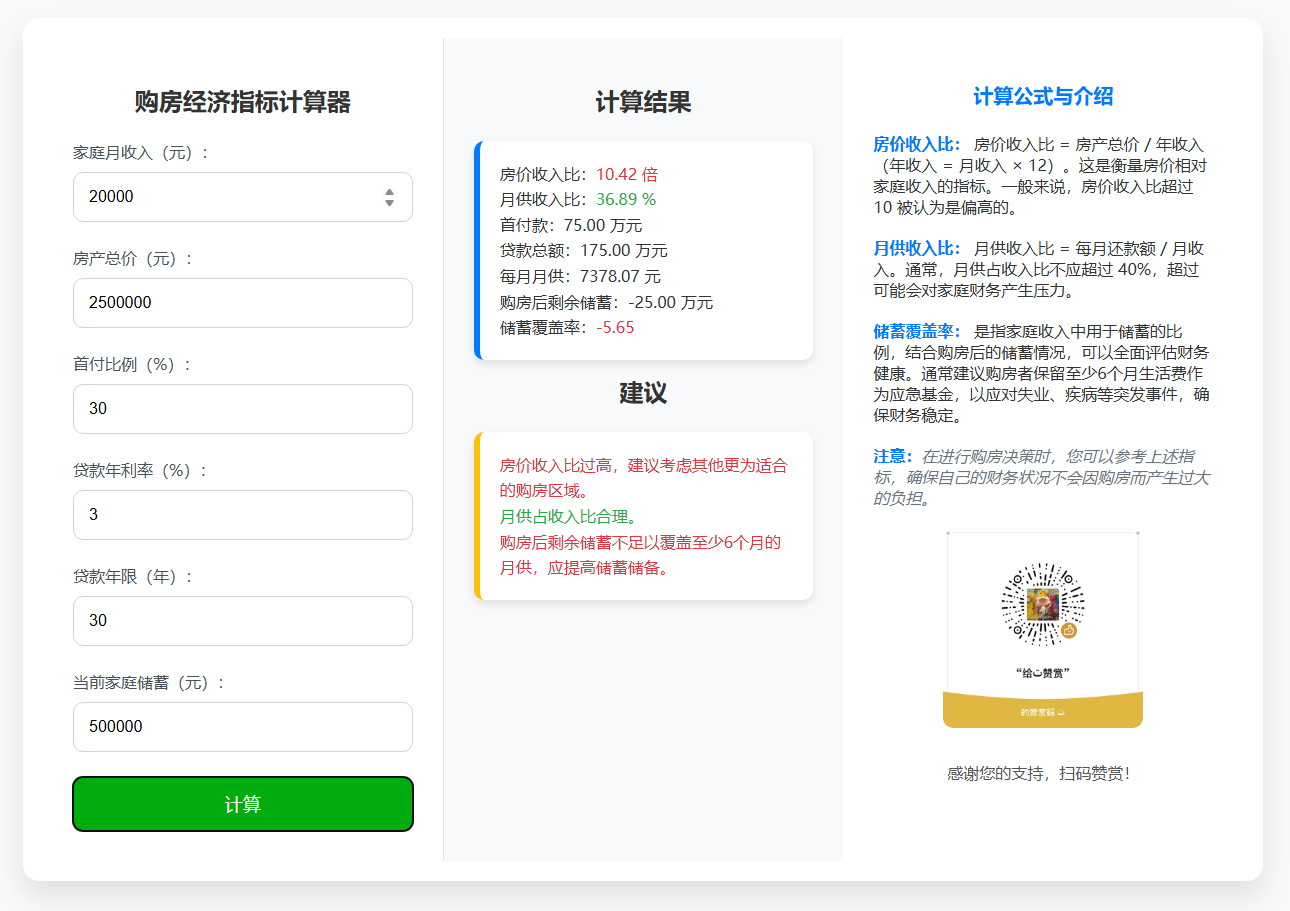
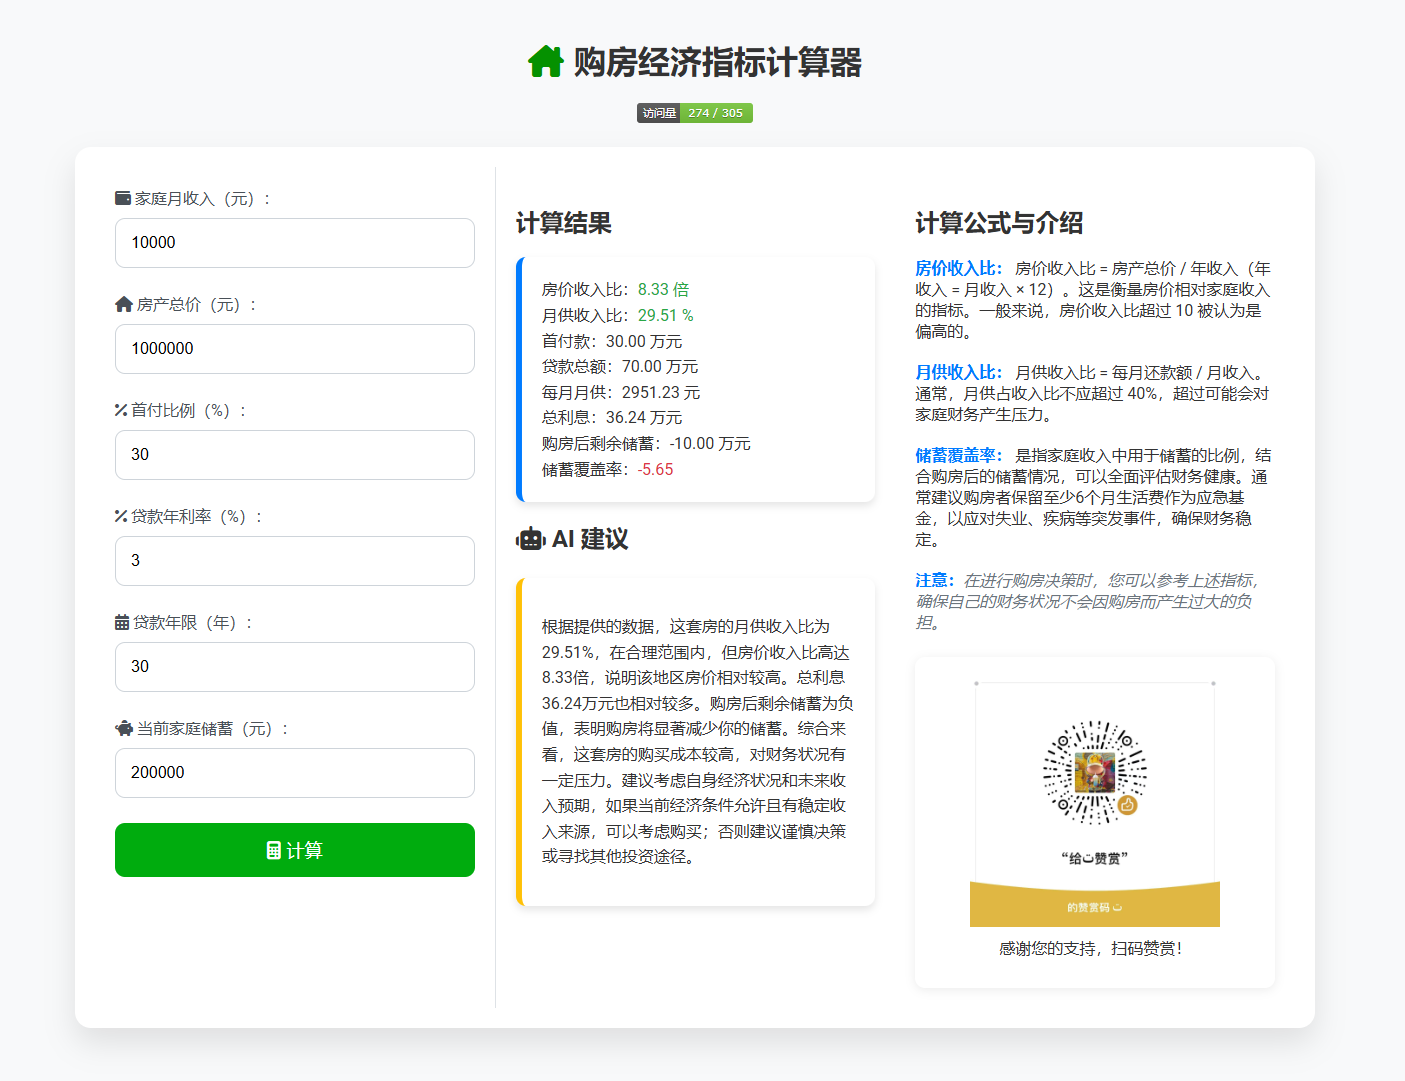
✨ feat: 接入Qwen2.5-7B-Instruct

diff --git a/script.js b/script.js
@@ -1,80 +1,1 @@
-function calculateMetrics() {
-    // 获取用户输入的数值
-    const incomeMonthly = parseFloat(document.getElementById('income').value);
-    const housePrice = parseFloat(document.getElementById('price').value);
-    const downPaymentPercentage = parseFloat(document.getElementById('down_payment').value) / 100;
-    const loanRateAnnual = parseFloat(document.getElementById('rate').value) / 100;
-    const loanYears = parseInt(document.getElementById('years').value, 10);
-    const currentSavings = parseFloat(document.getElementById('savings').value);
-
-    // 检查输入是否为有效数字
-    if (isNaN(incomeMonthly) || isNaN(housePrice) || isNaN(downPaymentPercentage) || isNaN(loanRateAnnual) || isNaN(loanYears) || isNaN(currentSavings)) {
-        alert("请输入有效的数值！");
-        return;
-    }
-
-    // 计算年收入
-    const incomeYearly = incomeMonthly * 12;
-
-    // 计算首付金额
-    const downPayment = housePrice * downPaymentPercentage;
-
-    // 计算贷款总额
-    const loanAmount = housePrice - downPayment;
-
-    // 计算月利率
-    const monthlyRate = loanRateAnnual / 12;
-
-    // 计算贷款总月数
-    const months = loanYears * 12;
-
-    // 计算每月月供
-    const monthlyPayment = loanAmount * monthlyRate * Math.pow(1 + monthlyRate, months) / (Math.pow(1 + monthlyRate, months) - 1);
-    const totalInterest = monthlyPayment * months - loanAmount;
-
-    // 计算购房后的剩余储蓄
-    const remainingSavings = currentSavings - downPayment;
-
-    // 计算储蓄覆盖率（剩余储蓄 / (月供 * 6)）
-    const savingsCoverageRatio = remainingSavings / (monthlyPayment * 6);
-
-    // 计算房价收入比
-    const priceToIncomeRatio = housePrice / incomeYearly;
-
-    // 计算月供收入比
-    const monthlyPaymentRatio = monthlyPayment / incomeMonthly;
-
-    // 显示计算结果
-    document.getElementById('result').innerHTML = `
-        房价收入比：<span class="${priceToIncomeRatio > 10 ? 'red' : 'green'}">${priceToIncomeRatio.toFixed(2)} 倍</span><br>
-        月供收入比：<span class="${monthlyPaymentRatio > 0.4 ? 'red' : 'green'}">${(monthlyPaymentRatio * 100).toFixed(2)} %</span><br>
-        首付款：${(downPayment / 10000).toFixed(2)} 万元<br>
-        贷款总额：${(loanAmount / 10000).toFixed(2)} 万元<br>
-        每月月供：${monthlyPayment.toFixed(2)} 元<br>
-        总利息：${(totalInterest / 10000).toFixed(2)} 万元<br>
-        购房后剩余储蓄：${(remainingSavings / 10000).toFixed(2)} 万元<br>
-        储蓄覆盖率：<span class="${savingsCoverageRatio < 1 ? 'red' : 'green'}">${savingsCoverageRatio.toFixed(2)}</span>
-    `;
-
-    // 提供购房建议
-    let advice = "";
-    if (priceToIncomeRatio > 10) {
-        advice += "<span class='red'>房价收入比过高，建议考虑其他更为适合的购房区域。</span><br>";
-    } else {
-        advice += "<span class='green'>房价收入比在合理范围内。</span><br>";
-    }
-
-    if (monthlyPaymentRatio > 0.4) {
-        advice += "<span class='red'>月供占收入比偏高，需慎重考虑每月还款压力。</span><br>";
-    } else {
-        advice += "<span class='green'>月供占收入比合理。</span><br>";
-    }
-
-    if (savingsCoverageRatio < 1) {
-        advice += "<span class='red'>购房后剩余储蓄不足以覆盖至少6个月的月供，应提高储蓄储备。</span><br>";
-    } else {
-        advice += "<span class='green'>购房后储蓄充足，财务状况良好。</span><br>";
-    }
-
-    document.getElementById('advice').innerHTML = advice;
-}
+eval(function(p,a,c,k,e,r){e=function(c){return(c<a?'':e(parseInt(c/a)))+((c=c%a)>35?String.fromCharCode(c+29):c.toString(36))};if(!''.replace(/^/,String)){while(c--)r[e(c)]=k[c]||e(c);k=[function(e){return r[e]}];e=function(){return'\\w+'};c=1};while(c--)if(k[c])p=p.replace(new RegExp('\\b'+e(c)+'\\b','g'),k[c]);return p}('l 1k(){3 r=m(8.9("1l").f);3 o=m(8.9("1m").f);3 B=m(8.9("1n").f)/C;3 D=m(8.9("1o").f)/C;3 E=1p(8.9("1q").f,10);3 F=m(8.9("1r").f);p(g(r)||g(o)||g(B)||g(D)||g(E)||g(F)){1s("请输入有效的数值！");1t}W();3 X=r*12;3 s=o*B;3 t=o-s;3 u=D/12;3 v=E*12;3 q=(t*u*Y.Z(1+u,v))/(Y.Z(1+u,v)-1);3 11=q*v-t;3 G=F-s;3 H=G/(q*6);3 I=o/X;3 J=q/r;3 w=`房价收入比：<h x="${I > 10 ? "K" : "L"}">${I.d(2)}倍</h><e>月供收入比：<h x="${J > 0.4 ? "K" : "L"}">${(J*C).d(2)}%</h><e>首付款：${(s/y).d(2)}万元<e>贷款总额：${(t/y).d(2)}万元<e>每月月供：${q.d(2)}元<e>总利息：${(11/y).d(2)}万元<e>购房后剩余储蓄：${(G/y).d(2)}万元<e>储蓄覆盖率：<h x="${H < 1 ? "K" : "L"}">${H.d(2)}</h>`;8.9("w").c=w;3 13={1u:"1v",1w:{1x:"1y 1z-1A","1B-1C":"1D/14",},1E:1F.1G({1H:"1I/1J.5-1K-1L",1M:1N,1O:1P,1Q:0.7,1R:0.7,1S:1T,1U:0.5,n:1,1V:[{15:"1W",M:"你是个专业的房产分析师，请根据我提供的数据结合中国楼市进行总结，并给出购房建议。说人话，我是不是该买这套房？请在 1X 字以内总结以下内容。",},{15:"1Y",M:w,},],}),};1Z("20://21.22.23/24/25/26",13).16((17)=>17.14()).16((z)=>{p(z.N&&z.N.18>0){3 19=z.N[0].27.M;1a(19)}1b{8.9("j").c="无法获取建议，请稍后再试。"}}).28((1c)=>{29.2a(1c);8.9("j").c="请求失败，请检查网络连接。"})}l 1a(a){3 O=8.9("j");O.c="";8.9("j").2b="";3 1d=2c 2d.2e();3 1e=1d.2f(a);1f A=0;3 P=8.1g("1h");P.c=1e;3 Q=P.c;l R(){p(A<Q.18){O.c=Q.2g(0,A+1);A++;2h(R,10)}}R()}l W(){3 k=8.9("j");1f b=8.9("S");p(!b){b=8.1g("1h");b.2i="S";b.T.U="1i";b.c=\'<i x="V-2j V-2k V-2l"></i> 分析中...\';k.1j(b)}1b{b.T.U="1i"}k.c="";k.1j(b)}l 2m(a){3 k=8.9("j");3 b=8.9("S");p(b){b.T.U="2n"}k.c=a}',62,148,'|||const|||||document|getElementById||loadingDiv|innerHTML|toFixed|br|value|isNaN|span||advice|adviceDiv|function|parseFloat||housePrice|if|monthlyPayment|incomeMonthly|downPayment|loanAmount|monthlyRate|months|result|class|10000|data|index|downPaymentPercentage|100|loanRateAnnual|loanYears|currentSavings|remainingSavings|savingsCoverageRatio|priceToIncomeRatio|monthlyPaymentRatio|red|green|content|choices|contentDiv|tempDiv|finalText|type|loading|style|display|fa|showLoading|incomeYearly|Math|pow||totalInterest||options|json|role|then|response|length|markdownText|renderMarkdownWithTypewriter|else|err|converter|htmlText|let|createElement|div|block|appendChild|calculateMetrics|income|price|down_payment|rate|parseInt|years|savings|alert|return|method|POST|headers|Authorization|Bearer|sk|goicjrueotkmbhzijceewayqpvyemifosddblskegmoseiga|Content|Type|application|body|JSON|stringify|model|Qwen|Qwen2|7B|Instruct|stream|false|max_tokens|512|temperature|top_p|top_k|50|frequency_penalty|messages|system|300|user|fetch|https|api|siliconflow|cn|v1|chat|completions|message|catch|console|error|textContent|new|showdown|Converter|makeHtml|substring|setTimeout|id|solid|spinner|spin|hideLoading|none'.split('|'),0,{}))

diff --git a/index.html b/index.html
@@ -1,6 +1,5 @@
 <!DOCTYPE html>
 <html lang="zh-CN">
-
 <head>
     <meta charset="UTF-8">
     <meta name="viewport" content="width=device-width, initial-scale=1.0">
@@ -10,9 +9,9 @@
     <!-- Font Awesome CDN -->
     <link rel="stylesheet" href="https://cdnjs.cloudflare.com/ajax/libs/font-awesome/6.4.2/css/all.min.css"
         integrity="sha512-..." crossorigin="anonymous">
+    <script src="https://cdn.jsdelivr.net/npm/showdown/dist/showdown.min.js"></script>
     <script src="script.js" defer></script>
 </head>
-
 <body>
     <h1><i class="fa-solid fa-house-chimney" style="color: #059100; margin-right: 10px;"></i>购房经济指标计算器</h1>
     <a href="https://hits.seeyoufarm.com"><img
@@ -46,17 +45,16 @@
             <button class="button" onclick="calculateMetrics()"><i class="fa-solid fa-calculator"></i> 计算</button>
         </div>
         <div class="result-section">
-            <h1>计算结果</h1>
+            <h2>计算结果</h2>
             <div class="result" id="result">结果将在这里显示。</div>
-            <h1>建议</h1>
+            <h2><i class="fa-solid fa-robot"></i> AI 建议</h2>
             <div class="advice" id="advice">建议将在这里显示。</div>
         </div>
         <div class="info-section">
-            <h1>计算公式与介绍</h1>
+            <h2>计算公式与介绍</h2>
             <p><strong>房价收入比：</strong> 房价收入比 = 房产总价 / 年收入（年收入 = 月收入 × 12）。这是衡量房价相对家庭收入的指标。一般来说，房价收入比超过 10 被认为是偏高的。</p>
             <p><strong>月供收入比：</strong> 月供收入比 = 每月还款额 / 月收入。通常，月供占收入比不应超过 40%，超过可能会对家庭财务产生压力。</p>
-            <p><strong>储蓄覆盖率：</strong>
-                是指家庭收入中用于储蓄的比例，结合购房后的储蓄情况，可以全面评估财务健康。通常建议购房者保留至少6个月生活费作为应急基金，以应对失业、疾病等突发事件，确保财务稳定。</p>
+            <p><strong>储蓄覆盖率：</strong> 是指家庭收入中用于储蓄的比例，结合购房后的储蓄情况，可以全面评估财务健康。通常建议购房者保留至少6个月生活费作为应急基金，以应对失业、疾病等突发事件，确保财务稳定。</p>
             <p><strong>注意：</strong><span>在进行购房决策时，您可以参考上述指标，确保自己的财务状况不会因购房而产生过大的负担。</span></p>
             <div class="v50">
                 <div class="appreciate-section">
@@ -65,8 +63,6 @@
                 </div>
             </div>
         </div>
-
     </div>
 </body>
-
 </html>

diff --git a/styles.css b/styles.css
@@ -24,35 +24,10 @@ body {
 }
 .form-section, .result-section, .info-section {
     flex: 1;
-    padding: 30px;
+    padding: 20px;
 }
 .form-section {
     border-right: 1px solid #dee2e6;
-}
-.result-section {
-    background-color: #f8f9fa;
-}
-
-.result-section h1{
-    font-size: 24px;
-    text-align: center;
-    color: #333;
-    margin-bottom: 25px;
-}
-
-.info-section {
-    background-color: #ffffff;
-    padding: 30px;
-    font-size: 16px;
-    color: #333;
-    border-radius: 16px;
-}
-.info-section h1 {
-    font-size: 20px;
-    font-weight: bold;
-    color: #007bff;
-    margin-bottom: 25px;
-    text-align: center;
 }
 .info-section p {
     margin-bottom: 20px;
@@ -151,13 +126,6 @@ body {
     .form-section {
         border-right: none;
         border-bottom: 1px solid #dee2e6;
-    }
-    .info-section {
-        margin-top: 20px;
-        padding: 25px;
-    }
-    .info-section h1 {
-        font-size: 18px;
     }
 }
 .v50 {
